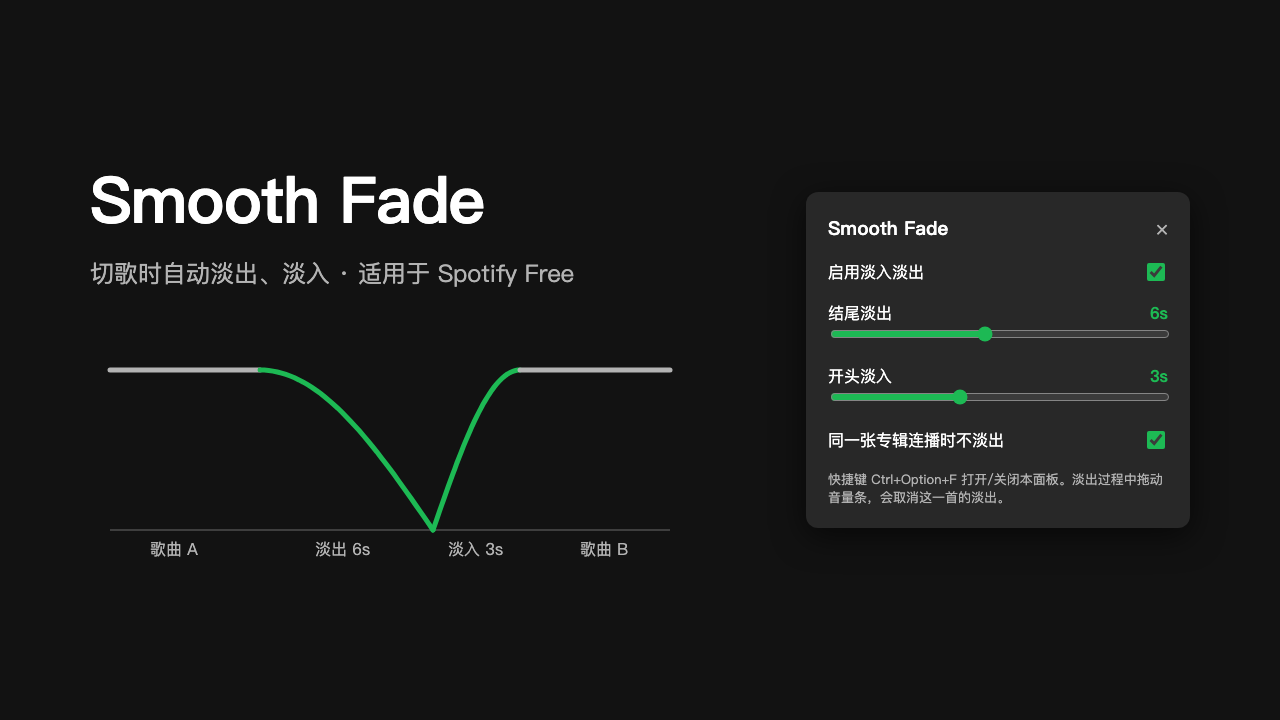
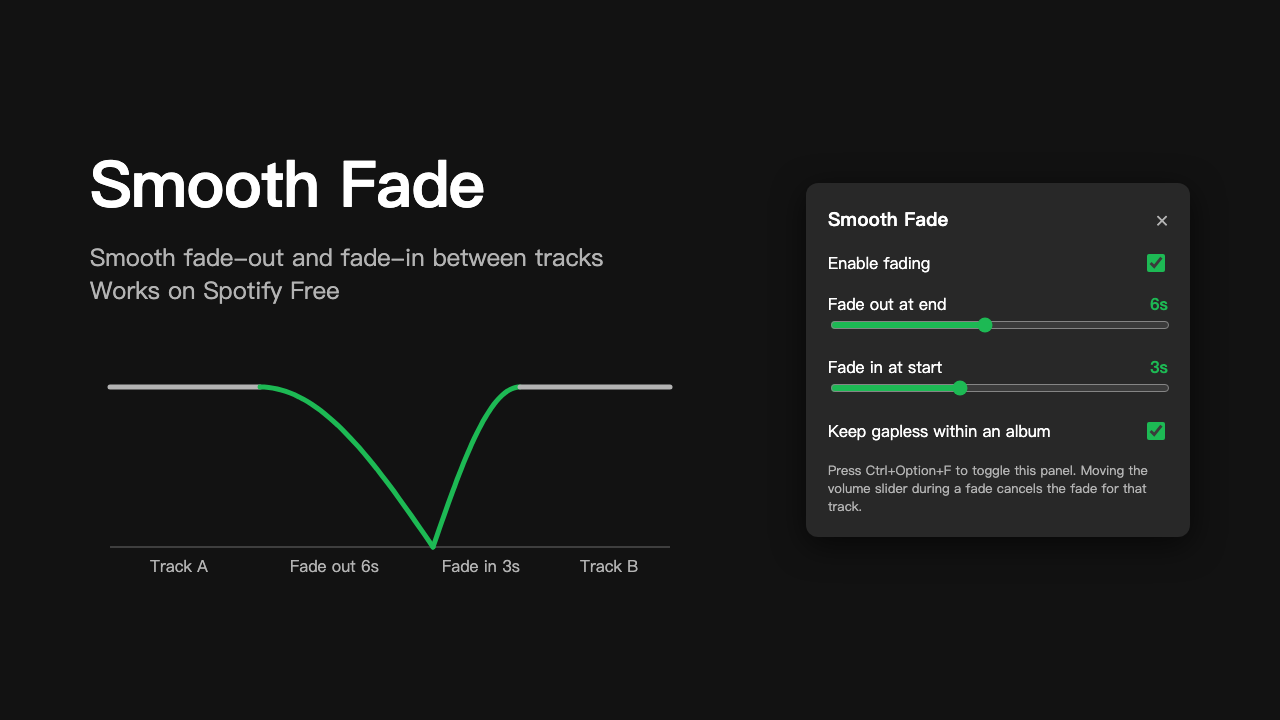
Translate extension UI, README, and preview to English

diff --git a/smoothFade.js b/smoothFade.js
@@ -1,6 +1,6 @@
 // NAME: Smooth Fade
 // AUTHOR: stevia7896
-// VERSION: 1.1.0
+// VERSION: 1.1.1
 // DESCRIPTION: Volume fade-out at the end of each track and fade-in on the next one. Works without Premium crossfade.
 
 (function SmoothFade() {
@@ -17,6 +17,7 @@
     }
 
     const TICK_MS = 100;
+    const SHORTCUT = /Mac/i.test(navigator.platform) ? "Ctrl+Option+F" : "Ctrl+Alt+F";
     const SETTINGS_KEY = "smoothfade:settings";
     const RESTORE_KEY = "smoothfade:restoreVolume"; // user volume saved while a fade is in progress
     const USER_CHANGE_TOLERANCE = 0.05;              // volume drift larger than this = user moved the slider
@@ -157,7 +158,7 @@
         if (f < 1) {
             if (outActive && !announcedFade) {
                 announcedFade = true; // one-time confirmation that fading works
-                toast("Smooth Fade：开始淡出");
+                toast("Smooth Fade: fading out");
             }
             if (lastSet === null) {
                 baseVol = vol; // take control: remember what the user had
@@ -209,17 +210,17 @@
     panel.hidden = true;
     panel.innerHTML = `
         <div class="sf-row"><span class="sf-title">Smooth Fade</span><button class="sf-close" data-sf="close">×</button></div>
-        <label class="sf-row"><span>启用淡入淡出</span><input type="checkbox" data-sf="en"></label>
+        <label class="sf-row"><span>Enable fading</span><input type="checkbox" data-sf="en"></label>
         <div>
-            <div class="sf-row"><span>结尾淡出</span><span class="sf-val" data-sf="out-v"></span></div>
+            <div class="sf-row"><span>Fade out at end</span><span class="sf-val" data-sf="out-v"></span></div>
             <input type="range" data-sf="out" min="${LIMITS.fadeOutSec[0]}" max="${LIMITS.fadeOutSec[1]}" step="0.5">
         </div>
         <div>
-            <div class="sf-row"><span>开头淡入</span><span class="sf-val" data-sf="in-v"></span></div>
+            <div class="sf-row"><span>Fade in at start</span><span class="sf-val" data-sf="in-v"></span></div>
             <input type="range" data-sf="in" min="${LIMITS.fadeInSec[0]}" max="${LIMITS.fadeInSec[1]}" step="0.5">
         </div>
-        <label class="sf-row"><span>同一张专辑连播时不淡出</span><input type="checkbox" data-sf="album"></label>
-        <div class="sf-note">快捷键 Ctrl+Option+F 打开/关闭本面板。淡出过程中拖动音量条，会取消这一首的淡出。</div>`;
+        <label class="sf-row"><span>Keep gapless within an album</span><input type="checkbox" data-sf="album"></label>
+        <div class="sf-note">Press ${SHORTCUT} to toggle this panel. Moving the volume slider during a fade cancels the fade for that track.</div>`;
     document.body.appendChild(panel);
 
     const q = (k) => panel.querySelector(`[data-sf="${k}"]`);
@@ -254,11 +255,11 @@
     // Spicetify entry points: best effort, any of them may silently not render on Spotify 1.3.8.
     const ICON = `<svg viewBox="0 0 16 16" width="16" height="16" fill="currentColor">
         <path d="M1 12h2V4H1v8zm4 2h2V2H5v12zm4-2h2V4H9v8zm4-3h2V7h-2v2z"/></svg>`;
-    const LABEL = "Smooth Fade 淡入淡出设置";
+    const LABEL = "Smooth Fade settings";
     try { if (S.Topbar?.Button) new S.Topbar.Button(LABEL, ICON, toggleSettings); } catch (e) { console.error("[SmoothFade] topbar", e); }
     try { if (S.Playbar?.Button) new S.Playbar.Button(LABEL, ICON, toggleSettings, false, false, true); } catch (e) { console.error("[SmoothFade] playbar", e); }
     try { if (S.Menu?.Item) new S.Menu.Item(LABEL, false, toggleSettings).register(); } catch (e) { console.error("[SmoothFade] menu", e); }
 
-    toast("Smooth Fade 已加载 · Ctrl+Option+F 打开设置");
+    toast(`Smooth Fade loaded · ${SHORTCUT} for settings`);
     console.log("[SmoothFade] loaded", cfg);
 })();

diff --git a/README.md b/README.md
@@ -1,64 +1,62 @@
 # Smooth Fade
 
-一个 [Spicetify](https://spicetify.app) 扩展：在每首歌结尾慢慢降低音量，下一首开始时再慢慢升回来，让切歌不再生硬。
-
-A Spicetify extension that fades the volume out at the end of each track and back in on the next one. Works on Spotify Free.
+A [Spicetify](https://spicetify.app) extension that fades the volume out at the end of each track and back in on the next one, so track changes stop sounding like hard cuts. Works on Spotify Free.
 
 ![Smooth Fade](preview.png)
 
-## 为什么需要它
+## Why
 
-Spotify 的「交叉淡入淡出（Crossfade）」现在只对 Premium 开放。免费账号切歌时会直接硬切。
+Spotify's built-in Crossfade is now Premium-only. On a free account, every track change is a hard cut.
 
-Spicetify 扩展运行在 Spotify 的界面层，拿不到音频流，没法让两首歌同时播放。所以这个扩展只调音量，不做真正的混音：两首歌不会重叠，中间会有一个很短的低音量谷底。它比硬切顺得多，但听起来和 Apple Music 的 crossfade 不一样。
+Spicetify extensions run in Spotify's UI layer and can't access the audio stream, so they can't play two tracks at once. Smooth Fade only controls the volume: the tracks don't overlap, and there's a short quiet dip between them. It's much smoother than a hard cut, but it is not a true crossfade like Apple Music's.
 
-如果你有 Premium，直接用 Spotify 自带的 Crossfade 或「混音歌单（Mix）」效果更好。
+If you have Premium, Spotify's own Crossfade or Mixed Playlists will sound better.
 
-## 功能
+## Features
 
-- 结尾淡出 1–12 秒（默认 6 秒），开头淡入 0–8 秒（默认 3 秒）
-- 同一张专辑连着播时不淡出，保留专辑本来的无缝衔接（可关闭）
-- 淡出时拖动音量条，会取消这一首的淡出，用你新设的音量
-- 淡出中途手动切歌，下一首照样淡入
-- 暂停超过 1.5 秒会先把音量还原；淡出到一半关掉 Spotify，下次打开会自动恢复原来的音量
-- 跳过广告和播客
+- Fade out over the last 1–12 seconds (default 6) and fade in over the first 0–8 seconds (default 3)
+- Keeps gapless playback when the next track is from the same album (can be turned off)
+- Moving the volume slider during a fade cancels the fade for that track and keeps your new volume
+- Skipping manually during a fade-out still fades the next track in
+- Pausing for more than 1.5 seconds restores the volume; if Spotify is closed mid-fade, the volume is restored on next launch
+- Ads and podcasts are left alone
 
-## 安装
+## Install
 
-### 通过 Spicetify Marketplace
+### Spicetify Marketplace
 
-在 Marketplace 的 Extensions 里搜索 **Smooth Fade**，点 Install。
+Search for **Smooth Fade** under Extensions in the Marketplace and click Install.
 
-### 手动安装
+### Manual
 
-1. 把 `smoothFade.js` 放进 Spicetify 的 Extensions 文件夹：
-   - macOS / Linux：`~/.config/spicetify/Extensions/`
-   - Windows：`%appdata%\spicetify\Extensions\`
-2. 运行：
+1. Put `smoothFade.js` in your Spicetify Extensions folder:
+   - macOS / Linux: `~/.config/spicetify/Extensions/`
+   - Windows: `%appdata%\spicetify\Extensions\`
+2. Run:
 
    ```sh
    spicetify config extensions smoothFade.js
    spicetify apply
    ```
 
-Spotify 重启后，屏幕下方会弹出「Smooth Fade 已加载」的提示。
+After Spotify restarts, a "Smooth Fade loaded" message appears near the bottom of the window.
 
-## 设置
+## Settings
 
-按 `Ctrl+Option+F`（Windows/Linux 是 `Ctrl+Alt+F`）打开设置面板。
+Press `Ctrl+Option+F` on macOS or `Ctrl+Alt+F` on Windows/Linux to open the settings panel.
 
-扩展也会尝试在顶栏、播放栏和头像菜单里加一个入口。在 Spotify 1.3.8 + Spicetify 2.46.4 上，这几个入口可能不显示，因为这版 Spicetify 官方只支持到 macOS 版 Spotify 1.3.7。快捷键不受影响。
+The extension also tries to add entries to the top bar, the playbar, and the profile menu. On Spotify 1.3.8 with Spicetify 2.46.4, these may not appear, because that Spicetify release officially supports macOS Spotify only up to 1.3.7. The keyboard shortcut works either way.
 
-## 卸载
+## Uninstall
 
 ```sh
 spicetify config extensions smoothFade.js-
 spicetify apply
 ```
 
-## 实现方式
+## How it works
 
-扩展每 100ms 读一次播放进度，按剩余时间算出音量系数（正弦曲线），再通过 `Spicetify.Player.setVolume` 写回音量。音量是根据播放进度算的，不是按计时器算的，所以暂停、拖进度条、单曲循环时都能对得上。
+Every 100 ms the extension reads the playback position, computes a volume factor from the time remaining (a sine curve), and sets the volume with `Spicetify.Player.setVolume`. Because the volume is derived from the playback position rather than a timer, pausing, seeking, and repeat-one all stay in sync.
 
 ## License
 
